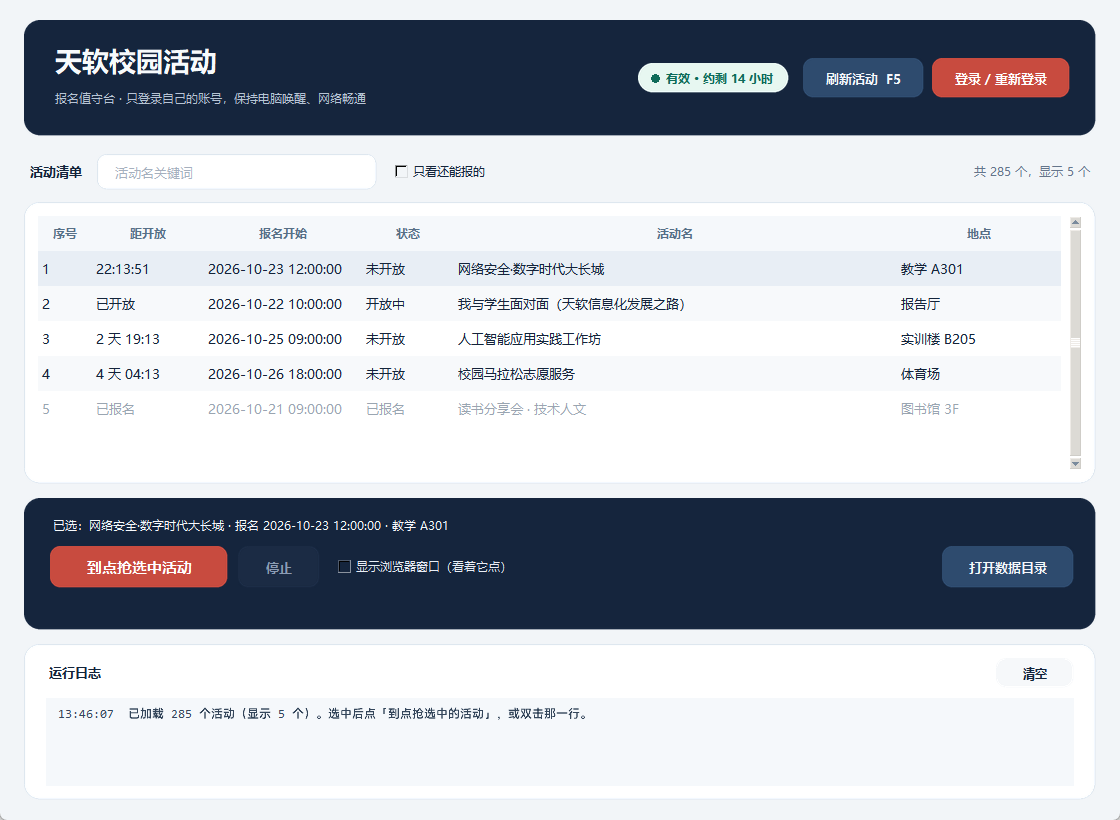
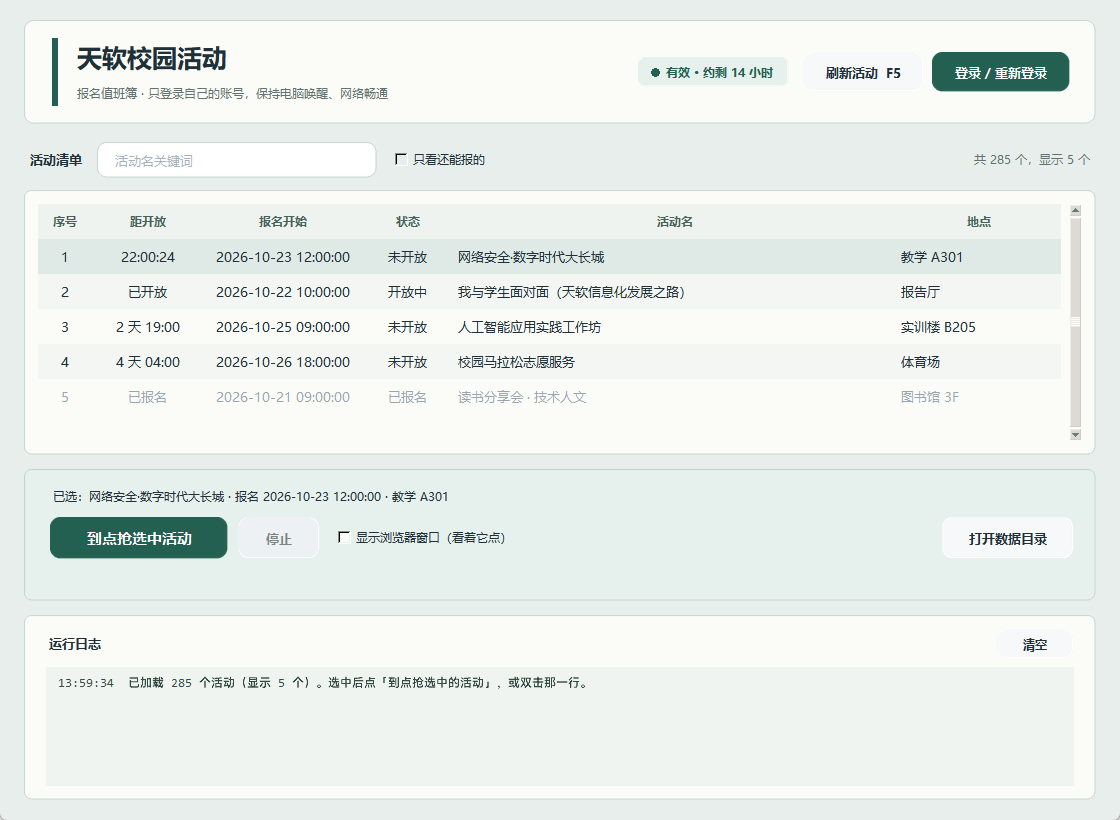
style(local): 本机版换成校园绿登记表，修日志裁切与倒计时对比度
上一版把深色抬头压在首屏，注意力被固定在上方，活动清单反而变次要；这套工具一晚上要盯几小时，
所以改成冷灰绿纸面 + 暖白卡，深绿只作行动色、琥珀只标时间，卡片圆角收到 8，更像一张登记表。

- 变色后两处不达标：倒计时琥珀压浅绿底只有 4.44:1（差一点 AA），压到 #8A5518 得 5.32；
  另删掉没人用的 SIGNAL 常量（#C1842B 压在浅琥珀底上只有 2.90:1，留着是雷）
- 日志卡把第一行裁掉了：卡高 146 减掉内边距只剩 118，装不下 30 高的「清空」+7 行文本（≈123），
  see("end") 一滚正好切掉最关键的报错行；卡高提到 200、间距收到 8

Agent: deepseek-v4-1-flash-260910

diff --git a/CHANGELOG.md b/CHANGELOG.md
@@ -2,6 +2,20 @@
 
 按时间倒序。只记"改了什么、为什么"，不逐文件列清单。
 
+## 2026-10-22（本机版改成校园绿登记表）
+
+- **整页换题**：深色抬头压在上方会把注意力固定在第一屏，活动清单反而成了次要信息；这版改成冷灰绿纸面
+  （`#E7EEEB`）+ 暖白卡（`#FBFCF8`），行动色换成深绿 `#246052`，琥珀 `#8A5518` 只留给"时间"（倒计时、
+  进行中 / 快过期药丸）。卡片圆角从 16/18 收到 8，操作卡从深色块改成浅绿底 + 细描边，整体像一张登记表——
+  这个工具一晚上要盯几小时，低对比的大色块比高对比更耐久。
+- **日志卡原本把第一行切掉了**：卡高 146、上下内边距 28，内容区只剩 118，而里面是 30 高的「清空」按钮
+  +10 间距+7 行文本（≈123），溢出 45 像素；`see("end")` 一滚，顶上那行（正好是 `[X] 本机还没有登录过`）
+  就被裁成半截。卡高提到 200、间距收到 8，现在 6 行整行完整。
+- **倒计时读数压深**：琥珀 `#98611D` 落在浅绿操作卡上只有 4.44:1，差一点够不上 AA，而这恰恰是要盯着看的
+  数字；压到 `#8A5518` 得 5.32:1，琥珀药丸文字也从 4.71 提到 5.64。
+- **删掉没人用的 `SIGNAL` 常量**：它压在浅琥珀底上只有 2.90:1，留着等于给以后的改动埋雷，只保留 `SIGNAL_DEEP`。
+- 全量核对过对比度：主按钮 7.32、正文 13.22、副标题 4.92、表头 5.92、日志 8.45、选中行 11.07、失效药丸 5.84。
+
 ## 2026-10-22（本机版界面改深色值守头）
 
 - **深色抬头 + 深色操作条**：头部与「选中活动 / 主按钮」两处换成深靛蓝面板（`#15253D`），把"这是值守工具"
